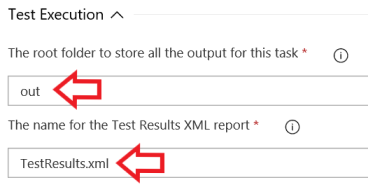
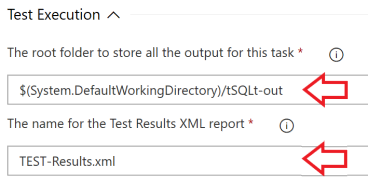
Fine tune around the 3 fixes

diff --git a/README.md b/README.md
@@ -67,11 +67,11 @@ Here, two required information:
 
 #### Test Execution
 
-You'll have default information filled here. You can also customize it. You'll need these information for publishing your test results to your execution summary.
+You'll have default information filled here that is supposed to make it work by default with the requirements of the **Publish Test Results** task. You can also customize it.
 
-* **The root folder to store all the output for this task**: You must be aware that all the output from this task will be dropped under working directory\**out** (or whatever you configure here).
+* **The root folder to store all the output for this task**: You must be aware that all the output from this task will be dropped under working **$(System.DefaultWorkingDirectory)/tSQLt-out** (or whatever you configure here).
 
-* **The name for the Test Results XML report**: This is the file that the Publish Test Results task will use to publish the results to the summary.
+* **The name for the Test Results XML report**: This is the file that the Publish Test Results task will use to publish the results to the summary. Its default value is already discoverable by the Publish Test Results task's default configuration.
 
 ![Test Execution](images/04-Test-Execution.PNG)
 

diff --git a/overview.md b/overview.md
@@ -67,11 +67,11 @@ Here, two required information:
 
 #### Test Execution
 
-You'll have default information filled here. You can also customize it. You'll need these information for publishing your test results to your execution summary.
+You'll have default information filled here that is supposed to make it work by default with the requirements of the **Publish Test Results** task. You can also customize it.
 
-* **The root folder to store all the output for this task**: You must be aware that all the output from this task will be dropped under working directory\**out** (or whatever you configure here).
+* **The root folder to store all the output for this task**: You must be aware that all the output from this task will be dropped under working **$(System.DefaultWorkingDirectory)/tSQLt-out** (or whatever you configure here).
 
-* **The name for the Test Results XML report**: This is the file that the Publish Test Results task will use to publish the results to the summary.
+* **The name for the Test Results XML report**: This is the file that the Publish Test Results task will use to publish the results to the summary. Its default value is already discoverable by the Publish Test Results task's default configuration.
 
 ![Test Execution](images/04-Test-Execution.PNG)
 
